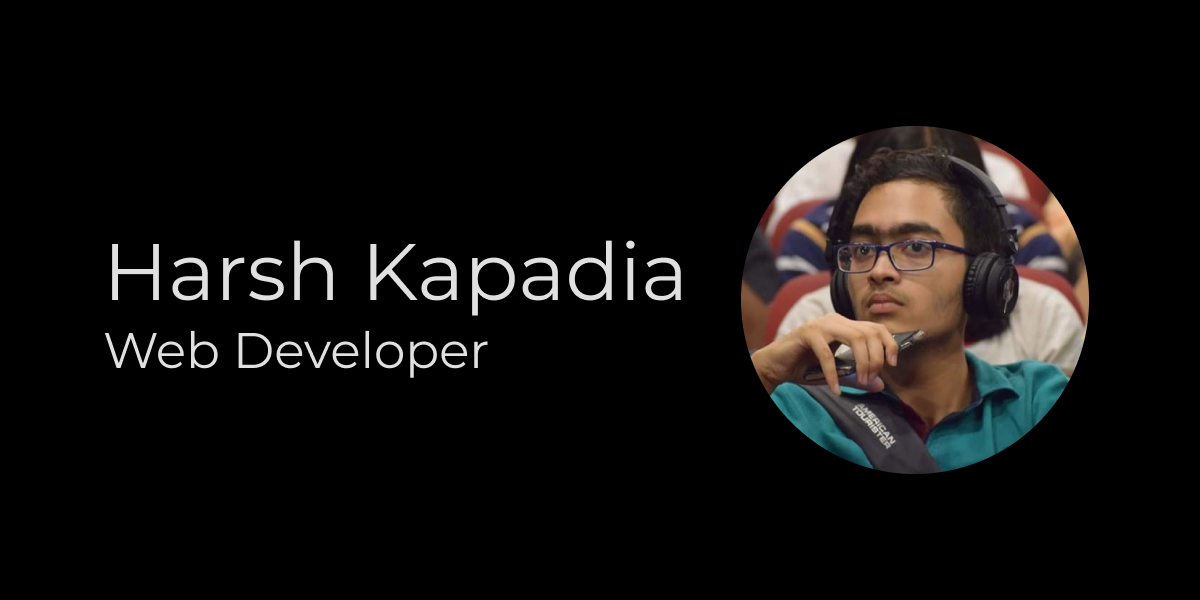
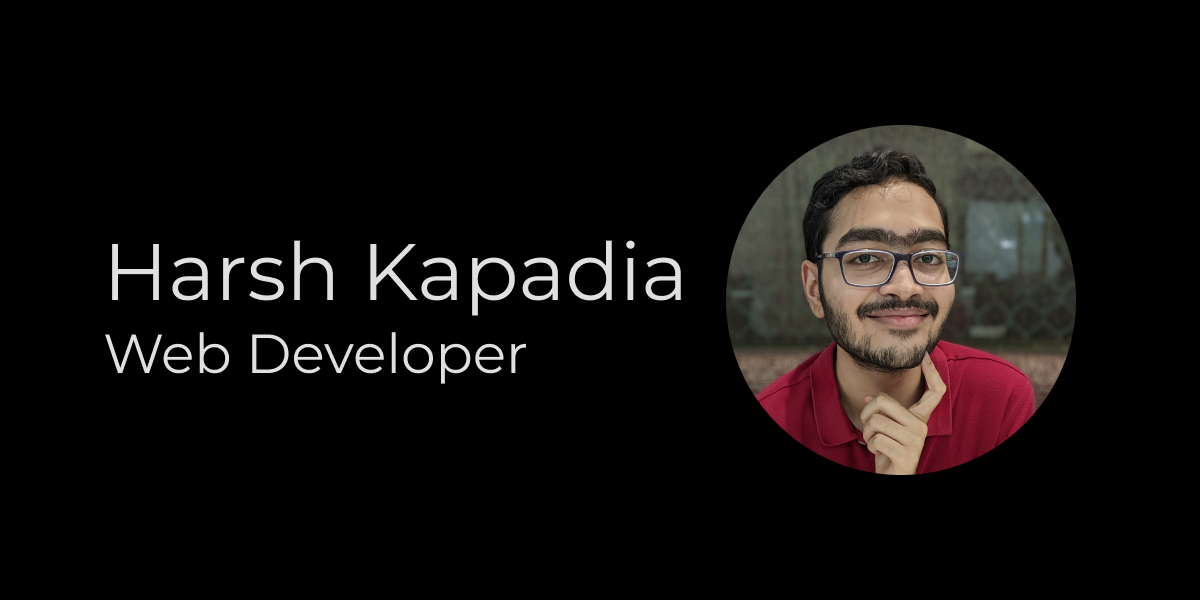
:sparkles: feat: Add pictures page & update profile picture
Add to Git Graph project description

Changed region(s): [[0.5858, 0.21, 0.925, 0.81], [0.0925, 0.54, 0.4317, 0.63]]

diff --git a/pictures.html b/pictures.html
@@ -1,0 +1,173 @@
+<!DOCTYPE html>
+
+<html lang="en">
+	<head>
+		<meta charset="UTF-8" />
+		<meta name="viewport" content="width=device-width, initial-scale=1.0" />
+
+		<title>Harsh Kapadia - Web Developer</title>
+
+		<script defer src="static/js/script.js"></script>
+
+		<link rel="preconnect" href="https://fonts.googleapis.com" />
+		<link rel="preconnect" href="https://fonts.gstatic.com" crossorigin />
+		<link
+			href="https://fonts.googleapis.com/css2?family=Montserrat&display=swap"
+			rel="stylesheet"
+		/>
+
+		<link rel="stylesheet" href="static/css/style.css" />
+
+		<link
+			rel="shortcut icon"
+			href="static/img/favicon.ico"
+			type="image/x-icon"
+		/>
+
+		<meta
+			name="keywords"
+			content="Harsh Kapadia, Web Developer, Git, OTC, Speaker, Our Tech Community"
+		/>
+		<meta name="description" content="Harsh Kapadia's profile pictures." />
+		<meta name="author" content="Harsh Kapadia" />
+		<meta property="og:site_name" content="Harsh Kapadia" />
+		<meta property="og:title" content="Profile Pictures" />
+		<meta property="og:type" content="website" />
+		<meta
+			property="og:description"
+			content="Harsh Kapadia's profile pictures."
+		/>
+		<meta property="og:url" content="https://harshkapadia.me/pictures" />
+		<meta
+			property="og:image"
+			itemprop="image"
+			content="https://harshkapadia.me/static/img/og-img.png"
+		/>
+		<meta property="og:image:width" content="1200" />
+		<meta property="og:image:height" content="600" />
+		<meta property="twitter:card" content="summary_large_image" />
+		<meta
+			property="twitter:image"
+			content="https://harshkapadia.me/static/img/og-img.png"
+		/>
+	</head>
+
+	<body>
+		<header class="header-border">
+			<div id="header-title" class="hidden-visibility">Harsh Kapadia</div>
+
+			<nav>
+				<div class="burger-menu">
+					<div class="line-1"></div>
+					<div class="line-2"></div>
+					<div class="line-3"></div>
+				</div>
+
+				<ul class="navbar-ul hide-burger-menu burger-menu-dropdown">
+					<li><a href="/">Home</a></li>
+					<li><a href="/#about">About</a></li>
+					<li><a href="/#projects">Projects</a></li>
+					<li><a href="/#internships">Internships</a></li>
+					<li><a href="/#skills">Skills</a></li>
+					<li><a href="/#talks">Talks</a></li>
+					<li><a href="/#otc">OTC</a></li>
+					<li>
+						<a
+							href="https://blog.harshkapadia.me"
+							target="_blank"
+							rel="noreferrer"
+							>Blog</a
+						>
+					</li>
+					<li>
+						<a
+							href="https://resume.harshkapadia.me"
+							target="_blank"
+							rel="noreferrer"
+							>Résumé</a
+						>
+					</li>
+					<li>
+						<a
+							href="https://links.harshkapadia.me"
+							target="_blank"
+							rel="noreferrer"
+							>Contact</a
+						>
+					</li>
+                    <li><a href="#">Pictures</a></li>
+				</ul>
+			</nav>
+		</header>
+
+		<main class="picture-section">
+			<div id="header-border-indicator"></div>
+
+			<h1>Harsh Kapadia</h1>
+
+			<h2>Profile Pictures</h2>
+
+			<h3>Square Image</h3>
+			<a
+				href="static/img/dp/harsh-kapadia-512x512-square.png"
+				target="_blank"
+				rel="noreferrer"
+				download
+				>Download (512 x 512)</a
+			>
+			<img
+				src="static/img/dp/harsh-kapadia-512x512-square.png"
+				alt="Harsh Kapadia's 512 x 512 square profile picture"
+				loading="lazy"
+				class="icon"
+			/>
+
+			<h3>Circle Image</h3>
+			<a
+				href="static/img/dp/harsh-kapadia-512x512-circle.png"
+				target="_blank"
+				rel="noreferrer"
+				download
+				>Download (512 x 512)</a
+			>
+			<img
+				src="static/img/dp/harsh-kapadia-512x512-circle.png"
+				alt="Harsh Kapadia's 512 x 512 circle profile picture"
+				loading="lazy"
+				class="icon"
+			/>
+
+			<h3>Original Image (Background Blurred)</h3>
+			<a
+				href="static/img/dp/harsh-kapadia-3000x4000-blurred.jpg"
+				target="_blank"
+				rel="noreferrer"
+				download
+				>Download (3000 x 4000)</a
+			>
+			<img
+				src="static/img/dp/harsh-kapadia-3000x4000-blurred.jpg"
+				alt="Harsh Kapadia's original background blurred profile picture"
+				loading="lazy"
+				class="icon"
+			/>
+
+			<h3>Original Image</h3>
+			<a
+				href="static/img/dp/harsh-kapadia-3000x4000.png"
+				target="_blank"
+				rel="noreferrer"
+				download
+				>Download (3000 x 4000)</a
+			>
+			<img
+				src="static/img/dp/harsh-kapadia-3000x4000.jpg"
+				alt="Harsh Kapadia's original profile picture"
+				loading="lazy"
+				class="icon"
+			/>
+		</main>
+
+		<footer>"Kindness always wins." -Selena Gomez</footer>
+	</body>
+</html>

diff --git a/static/css/style.css b/static/css/style.css
@@ -79,7 +79,7 @@ nav li a {
 /* ============================================== HOME SECTION ================================================== */
 
 main {
-	height: 100vh;
+	min-height: 100vh;
 	display: flex;
 	flex-direction: column;
 	align-items: center;
@@ -301,6 +301,19 @@ body::-webkit-scrollbar-thumb:hover {
 	background-color: #757575;
 }
 
+/* ============================================== PICTURES PAGE ============================================ */
+
+.picture-section {
+	margin-top: 12vh;
+	/* display: flex;
+	flex-direction: column;
+	align-items: center; */
+}
+
+.picture-section h3 {
+	margin-top: 1em;
+}
+
 /* ============================================== MEDIA QUERIES ============================================ */
 
 @media screen and (max-width: 920px) {
@@ -322,7 +335,7 @@ body::-webkit-scrollbar-thumb:hover {
 	}
 }
 
-@media screen and (max-width: 1120px) {
+@media screen and (max-width: 1260px) {
 	/* BURGER MENU */
 
 	.navbar-ul {

diff --git a/index.html b/index.html
@@ -92,6 +92,7 @@
 							>Contact</a
 						>
 					</li>
+					<li><a href="/pictures">Pictures</a></li>
 				</ul>
 			</nav>
 		</header>
@@ -161,7 +162,7 @@
 				<div id="main-col-2">
 					<img
 						class="icon"
-						src="static/img/harsh_kapadia.png"
+						src="static/img/harsh-kapadia-512x512-circle-landing.png"
 						alt="Harsh Kapadia"
 					/>
 				</div>
@@ -253,6 +254,10 @@
 								Give it the <code>.git</code> directory of a
 								repository and it will automatically generate
 								the graph.
+							</p>
+							<p>
+								All local branches can be visualized and
+								specific commits can be highlighted.
 							</p>
 						</div>
 						<div class="project-links">
